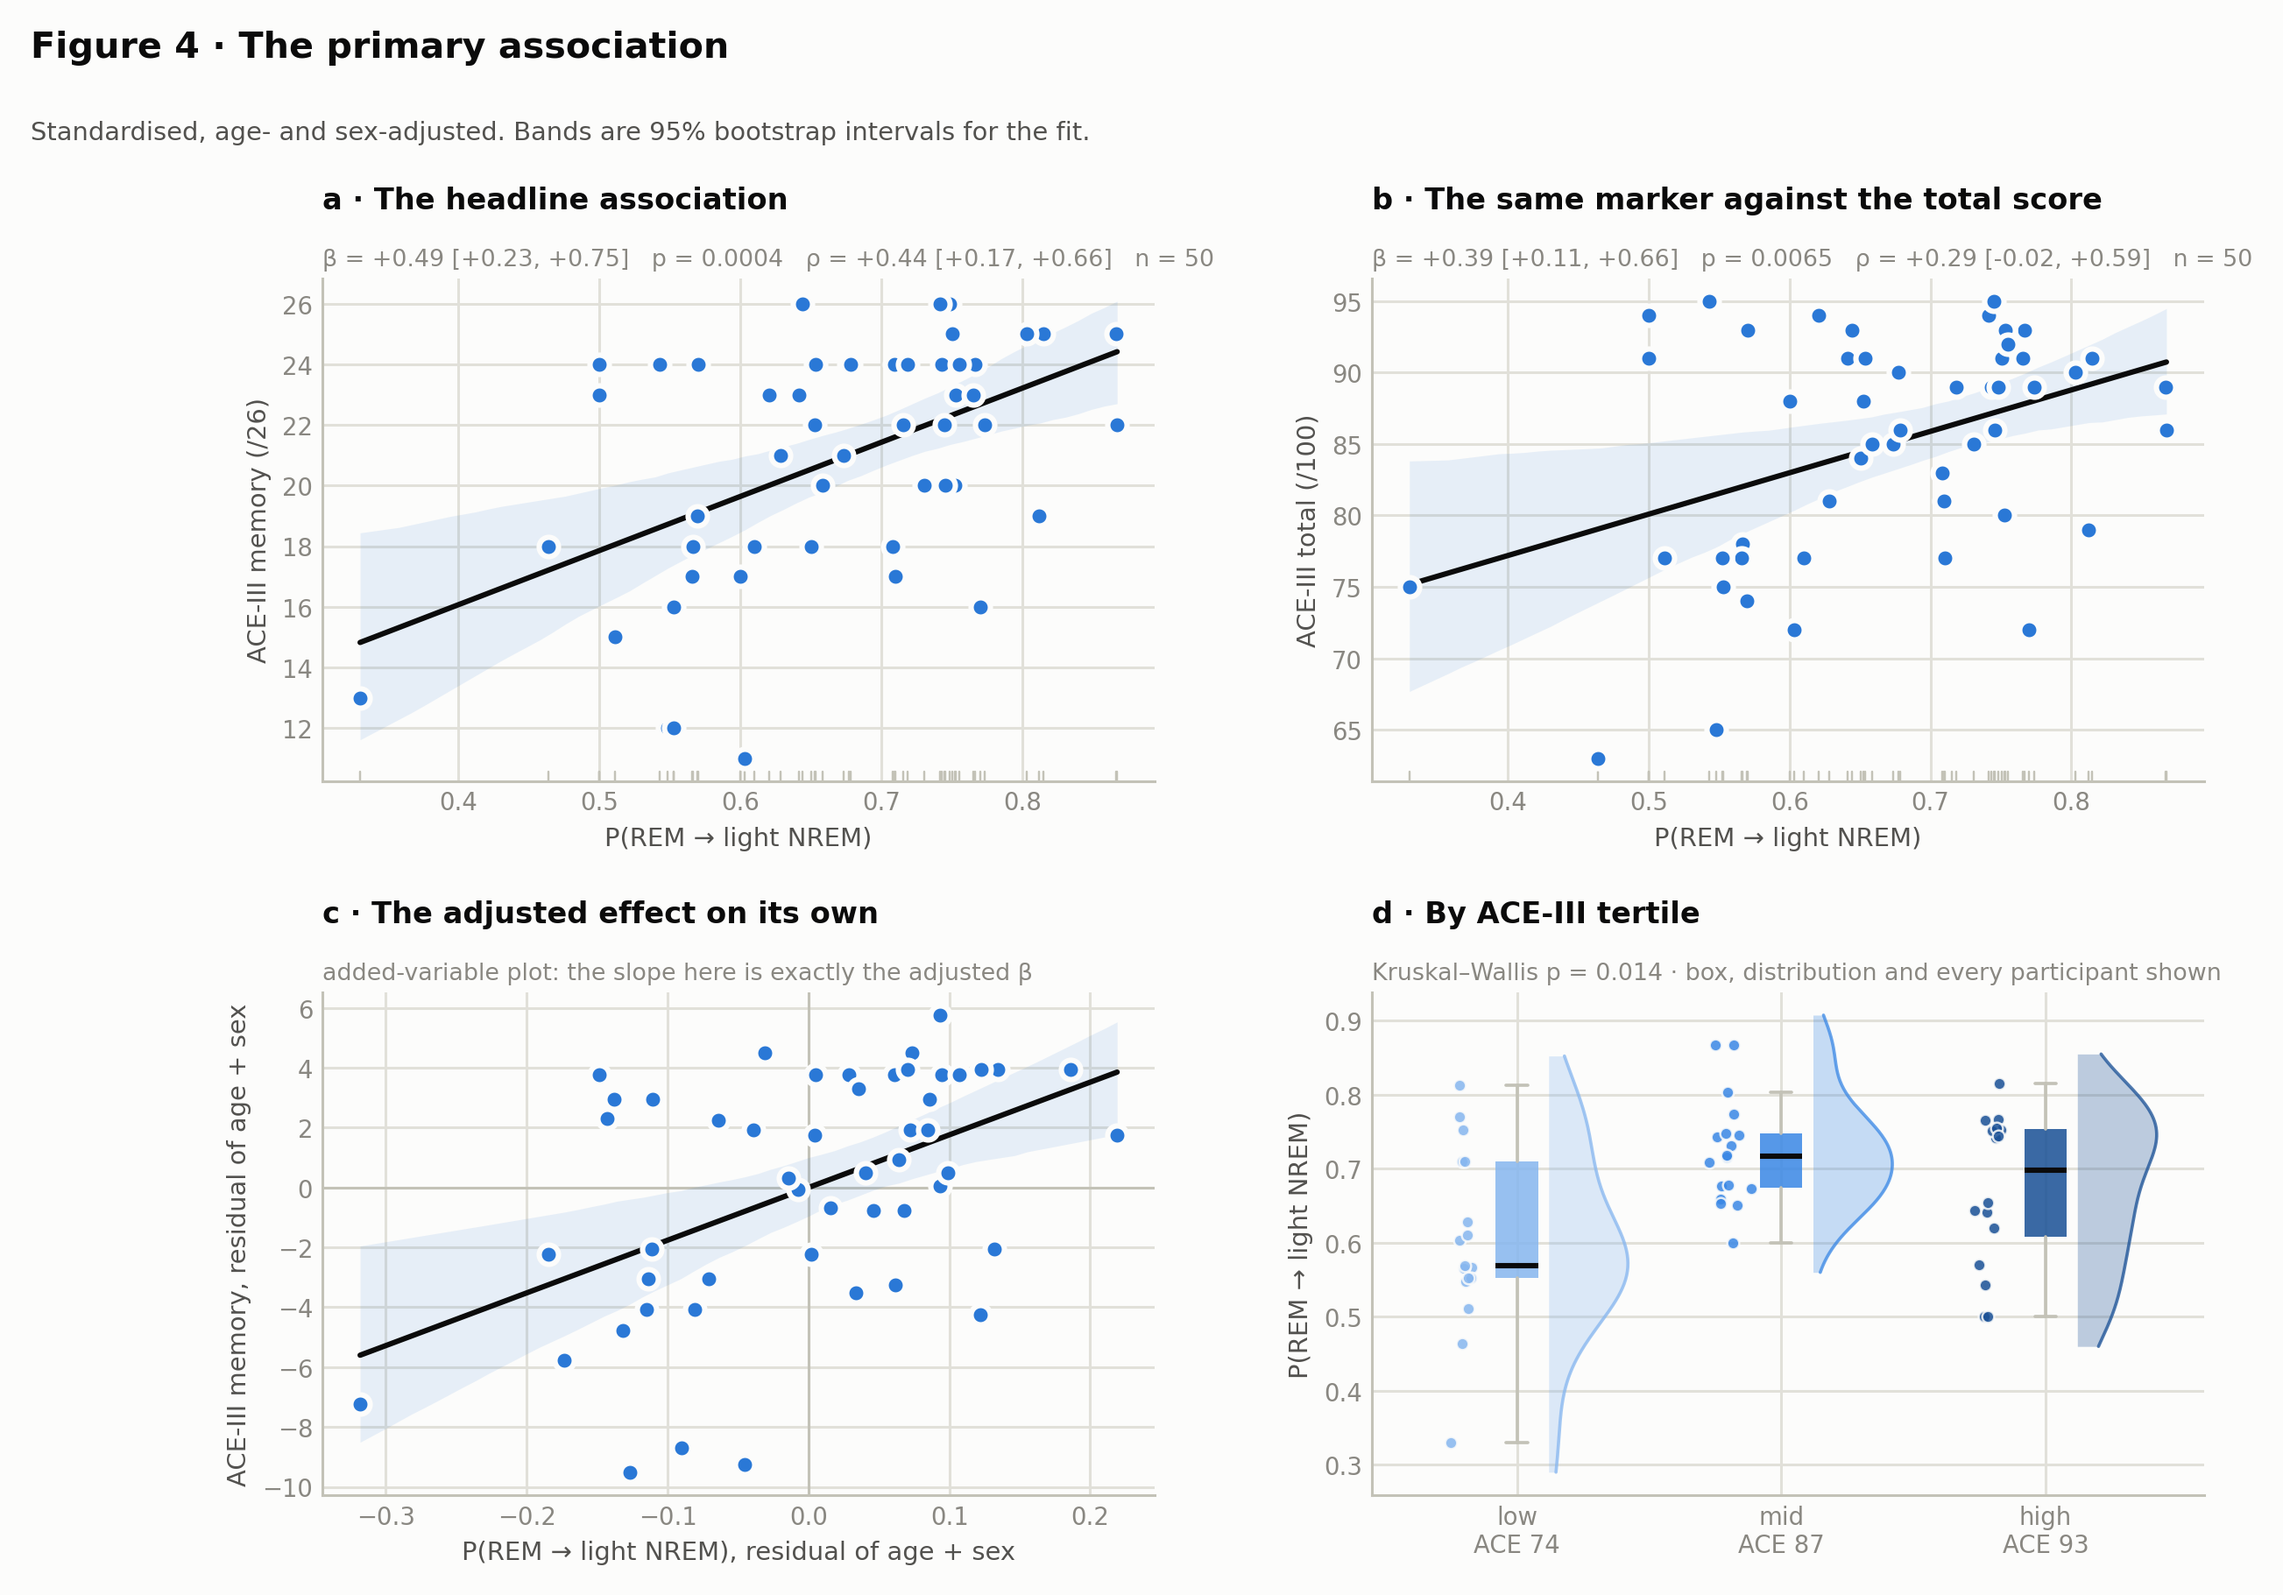
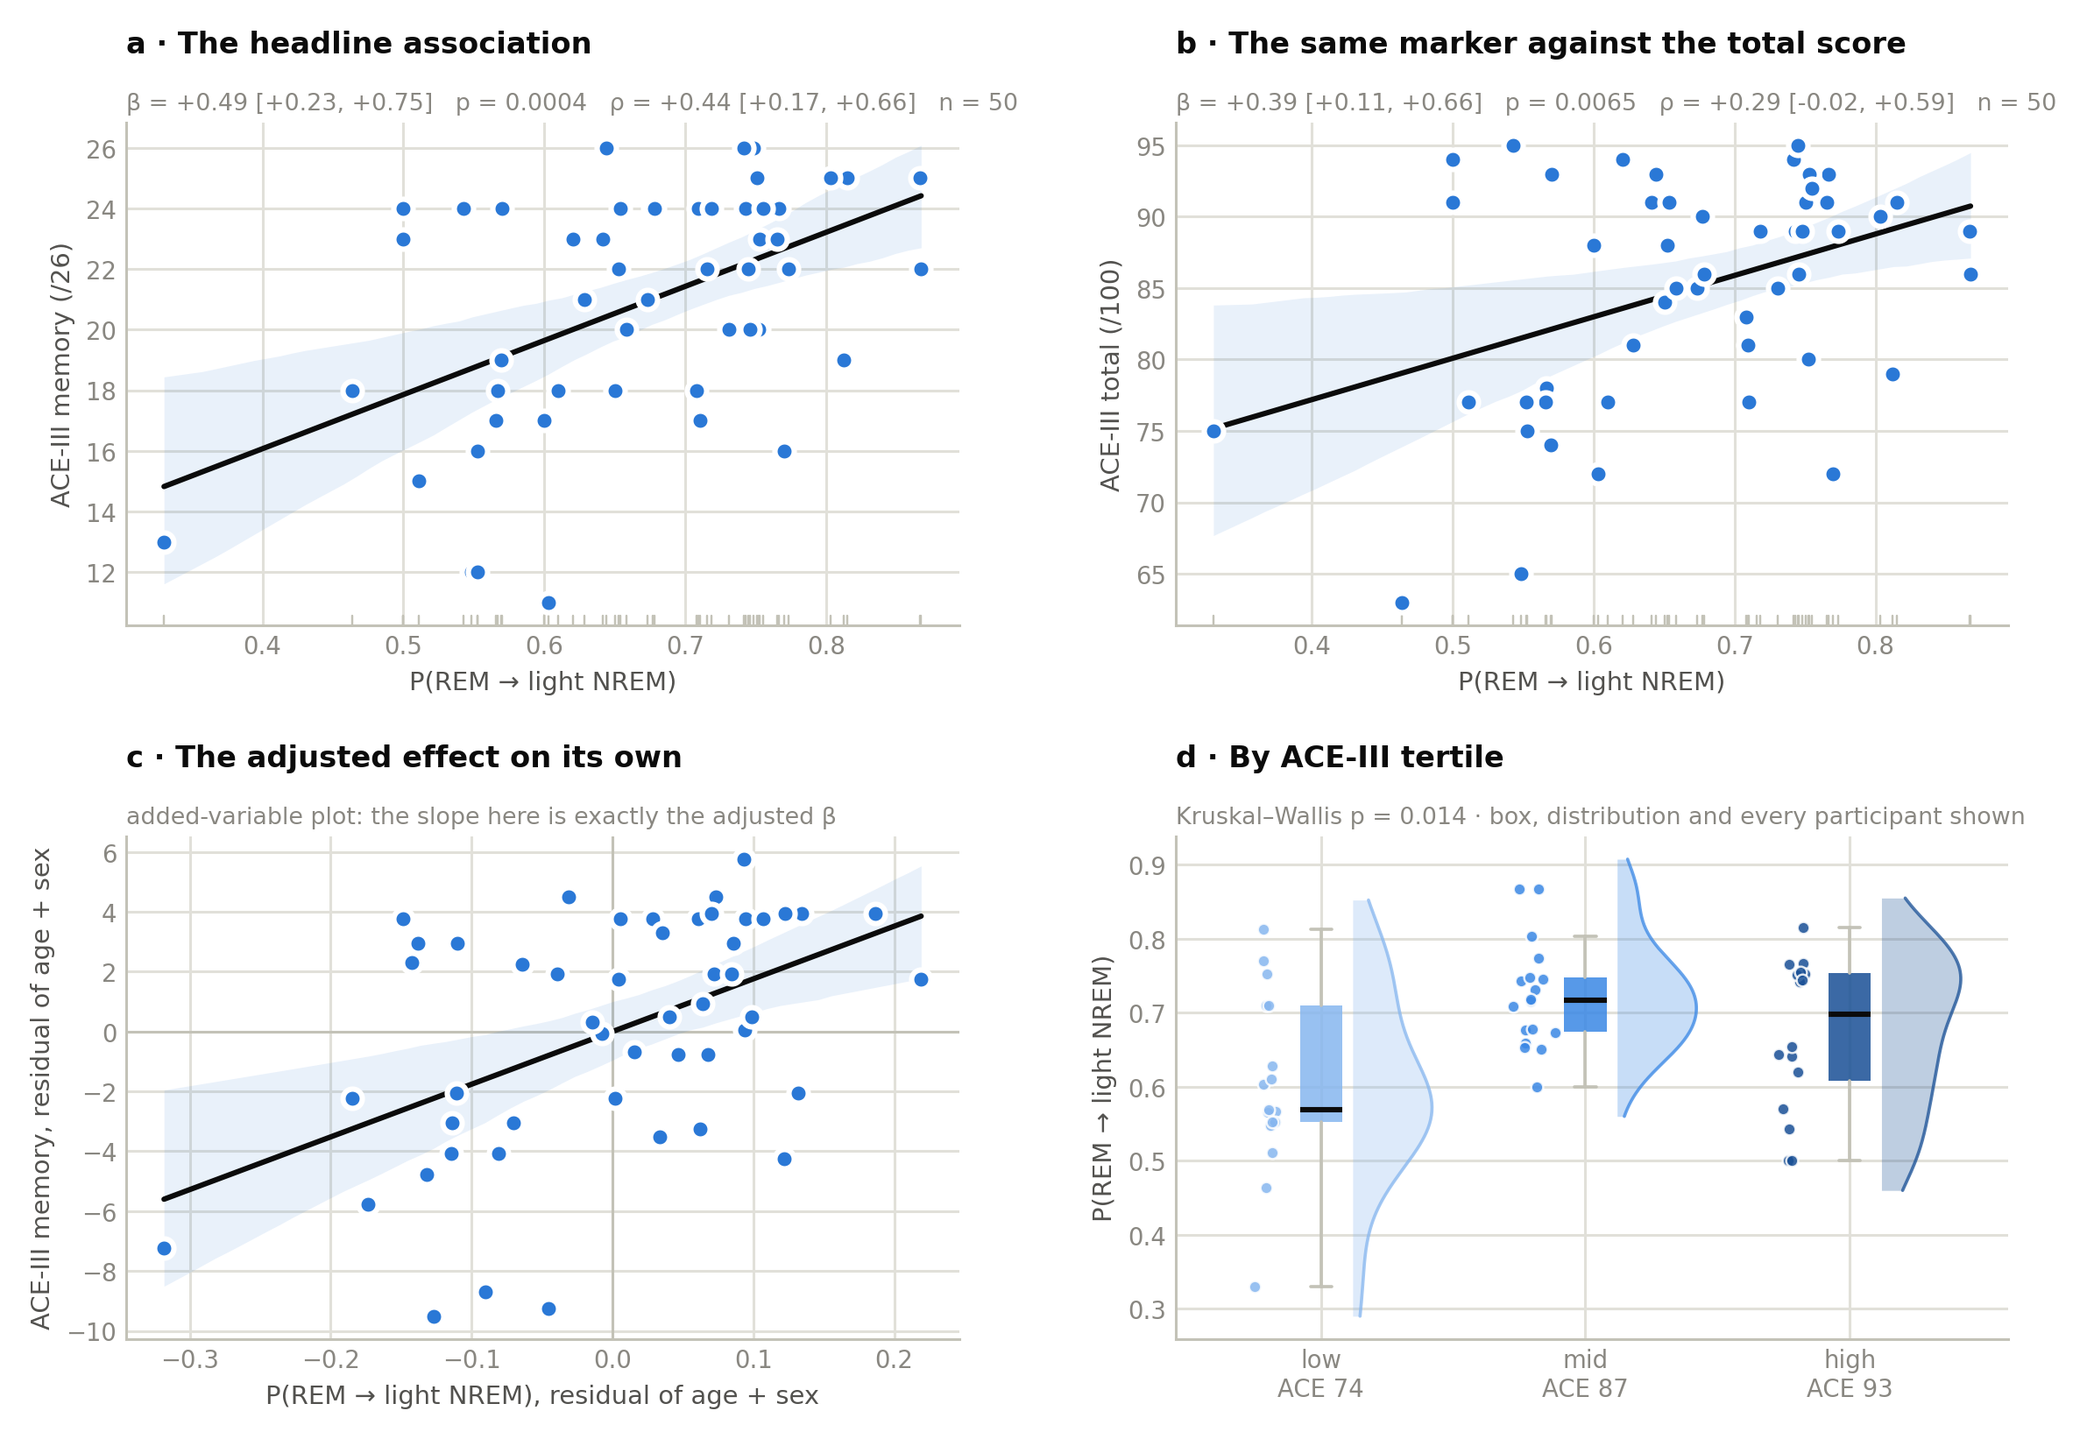
Sync figures and code with the current analysis; remove licence file
Figure fixes carried over from the manuscript revision: Figure 1 now selects
exemplar nights that contain an exit to each of the three destinations, so both
panels show the full palette and the contrast between participants is visible
(80% against 51% canonical). Section labels in the robustness forest and the k
labels in the nights ridgeline moved clear of the axes, and all figures now draw
on a white background so they sit flush on a white page.

Adds the three review-response figures and drops the LICENSE file at the
author's request.

diff --git a/src/make_rem_notebook_v2.py b/src/make_rem_notebook_v2.py
@@ -127,7 +127,7 @@ pd.set_option("display.width", 200); pd.set_option("display.max_columns", 60)
 RNG = np.random.default_rng(20260814)
 
 # ---------------------------------------------------------------- colour roles
-SURFACE = "#fcfcfb"                                  # chart surface
+SURFACE = "#ffffff"                                  # chart surface (flush with the page)
 INK, INK2, MUTED = "#0b0b0b", "#52514e", "#898781"   # text, in three weights
 GRID, AXIS, WASH = "#e1e0d9", "#c3c2b7", "#f0efec"   # chrome
 
@@ -449,8 +449,12 @@ def night_bouts(g):
     return pd.DataFrame([dict(stage=s, t0=g.start.iloc[a], t1=g.end.iloc[b - 1])
                          for s, a, b in zip(stages, st, en)])
 
-def representative_night(pid, target, min_exits=6):
-    "the night whose own REM-exit mix sits closest to the participant's pooled value"
+def representative_night(pid, target, min_exits=6, need_all_three=True):
+    # The night whose own REM-exit mix sits closest to the participant's pooled value.
+    # need_all_three also requires at least one exit to each destination, so the figure
+    # shows all three colours instead of leaving a reader to wonder where one went.
+    # (Docstrings here must stay single-line: this code is emitted inside a triple-quoted
+    #  block in the generator, so a nested triple quote would end it early.)
     df = read_stages(pid)
     best = None
     for night, g in df.groupby("night"):
@@ -460,13 +464,29 @@ def representative_night(pid, target, min_exits=6):
         ex = [NAME[bt.stage.iloc[i + 1]] for i in range(len(bt) - 1) if bt.stage.iloc[i] == 1]
         if len(ex) < min_exits:
             continue
+        if need_all_three and not {"L", "W", "D"}.issubset(set(ex)):
+            continue
         d = abs(ex.count("L") / len(ex) - target)
         if best is None or d < best[0]:
             best = (d, night, g)
     return best
 
+# Pick the pair to illustrate: strong and weak memory scores, but only among
+# participants who have a night containing all three exit destinations, so both
+# panels show the full palette. Among those, take the widest separation in P_RL.
 _cand = dat.dropna(subset=["ace_memory_subscale", "P_RL"]).sort_values("ace_memory_subscale")
-EXEMPLARS = {"high": _cand.iloc[-1], "low": _cand.iloc[0]}
+_lo_pool = _cand.head(12).sort_values("P_RL")           # weak memory, lowest P_RL first
+_hi_pool = _cand.tail(12).sort_values("P_RL", ascending=False)
+def _first_usable(pool):
+    for _, row in pool.iterrows():
+        if representative_night(row.participant, row.P_RL) is not None:
+            return row
+    return pool.iloc[0]
+EXEMPLARS = {"high": _first_usable(_hi_pool), "low": _first_usable(_lo_pool)}
+print(f"Figure 1 exemplars: high = {EXEMPLARS['high'].participant} "
+      f"(memory {EXEMPLARS['high'].ace_memory_subscale:.0f}, P_RL {EXEMPLARS['high'].P_RL:.2f}) | "
+      f"low = {EXEMPLARS['low'].participant} "
+      f"(memory {EXEMPLARS['low'].ace_memory_subscale:.0f}, P_RL {EXEMPLARS['low'].P_RL:.2f})")
 
 fig = plt.figure(figsize=(13.6, 6.6))
 gs = fig.add_gridspec(2, 2, width_ratios=[3.6, 1], hspace=.55, wspace=.20)
@@ -1688,7 +1708,8 @@ for i, k in enumerate(ks):
     col = matplotlib.colors.to_hex(SEQ(np.linspace(.28, 1.0, len(ks))[i]))
     ax.fill_between(xs, i, i + dns, color=col, alpha=.85, lw=0, zorder=3 + i)
     ax.plot(xs, i + dns, color=SURFACE, lw=1.4, zorder=3 + i)
-    ax.text(-.37, i + .12, f"{k}", ha="right", va="bottom", fontsize=8.5,
+    ax.text(-.018, i + .12, f"{k}", transform=ax.get_yaxis_transform(),
+            ha="right", va="bottom", fontsize=8.5,
             color=INK if k in (1, 14, 28, 112) else MUTED,
             fontweight="bold" if k in (1, 14, 28, 112) else "normal")
 ax.axvline(0, color=AXIS, lw=1.2, zorder=2)
@@ -1696,7 +1717,7 @@ ax.axvline(full_beta, color=INK, lw=1.3, zorder=len(ks) + 5)
 ax.text(full_beta + .02, len(ks) + .25, f"full recording β = {full_beta:.2f}", fontsize=8.5, color=INK)
 ax.set_yticks([]); ax.set_ylim(-.4, len(ks) + 1.0); ax.set_xlim(-.42, .95)
 ax.set_xlabel("standardised β (memory) recovered from k nights")
-ax.set_ylabel("nights per participant, k", labelpad=16)
+ax.set_ylabel("nights per participant, k", labelpad=26)
 ax.grid(axis="y", visible=False)
 ax.set_title("c · The whole sampling distribution", loc="left", pad=26)
 ax.text(0, 1.005, "each ridge is 60 re-estimates from k randomly drawn nights",

diff --git a/analysis/extra_analyses.py b/analysis/extra_analyses.py
@@ -30,7 +30,7 @@ TABDIR = os.path.join(HERE, "tables")
 os.makedirs(FIGDIR, exist_ok=True); os.makedirs(TABDIR, exist_ok=True)
 
 # ---------------------------------------------------------------- house style
-SURFACE, INK, INK2, MUTED = "#fcfcfb", "#0b0b0b", "#52514e", "#898781"
+SURFACE, INK, INK2, MUTED = "#ffffff", "#0b0b0b", "#52514e", "#898781"
 GRID, AXIS, WASH = "#e1e0d9", "#c3c2b7", "#f0efec"
 BLUE, ORANGE, AQUA, RED = "#2a78d6", "#eb6834", "#1baf7a", "#e34948"
 matplotlib.rcParams.update({
@@ -228,7 +228,8 @@ pd.DataFrame([{"transition": TRLAB[t], "selected_pct": 100*sel_counts[t]/B_SEL,
              ).sort_values("selected_pct", ascending=False).to_csv(
     f"{TABDIR}/selection_stability.csv", index=False)
 
-fig, axes = plt.subplots(1, 2, figsize=(12.4, 4.3), gridspec_kw={"width_ratios": [1, 1.15]})
+fig, axes = plt.subplots(1, 2, figsize=(13.2, 4.3),
+                         gridspec_kw={"width_ratios": [1, 1.15], "wspace": .46})
 ax = axes[0]
 ax.hist(boot_prl, bins=38, color=BLUE, alpha=.85, edgecolor=SURFACE, linewidth=.6)
 # the two estimates are nearly identical, so the labels go in a stack rather than
@@ -327,16 +328,25 @@ r = 0
 for cname, vals in CHOICES:
     for v in vals:
         ypos[(cname, v)] = r; ylabels.append(f"{v}"); r += 1
+r = 0                                   # alternating bands tie values to their group
+for gi, (cname, vals) in enumerate(CHOICES):
+    if gi % 2 == 0:
+        ax2.axhspan(r - .5, r + len(vals) - .5, color="#f4f4f2", zorder=0)
+    r += len(vals)
 for i, row in SPEC.iterrows():
     for cname, _ in CHOICES:
         ax2.plot([i], [ypos[(cname, row[cname])]], marker="s", ms=1.7,
-                 color=BLUE if row.p < .05 else MUTED, alpha=.85)
+                 color=BLUE if row.p < .05 else MUTED, alpha=.85, zorder=3)
 r = 0
 for cname, vals in CHOICES:
-    ax2.axhline(r - .5, color=GRID, lw=1)
-    ax2.text(-0.128, r + (len(vals)-1)/2, cname.replace("_", " "),
+    ax2.axhline(r - .5, color=AXIS, lw=1.1, zorder=2)
+    ax2.text(-0.138, r + (len(vals)-1)/2, cname.replace("_", " "),
              transform=ax2.get_yaxis_transform(), ha="right", va="center",
              fontsize=8.5, color=INK, fontweight="bold")
+    # a bracket from the group name to the rows it covers
+    ax2.plot([-0.131, -0.131], [r - .35, r + len(vals) - .65],
+             transform=ax2.get_yaxis_transform(), color=AXIS, lw=1.2,
+             clip_on=False, solid_capstyle="butt")
     r += len(vals)
 ax2.set_yticks(range(len(ylabels)), ylabels, fontsize=8)
 ax2.set_ylim(-.7, len(ylabels) - .3); ax2.invert_yaxis()

diff --git a/README.md b/README.md
@@ -86,7 +86,3 @@ This is an exploratory, cross-sectional analysis of 50–52 people, with sleep s
 consumer under-mattress sensor rather than polysomnography. The manuscript treats P(REM → light NREM)
 as a candidate index requiring replication, not as an established biomarker, and the code is
 published so that claim can be checked rather than taken on trust.
-
-## Licence
-
-MIT (code). The dataset is CC BY 4.0 and is not redistributed here — download it from Zenodo.
